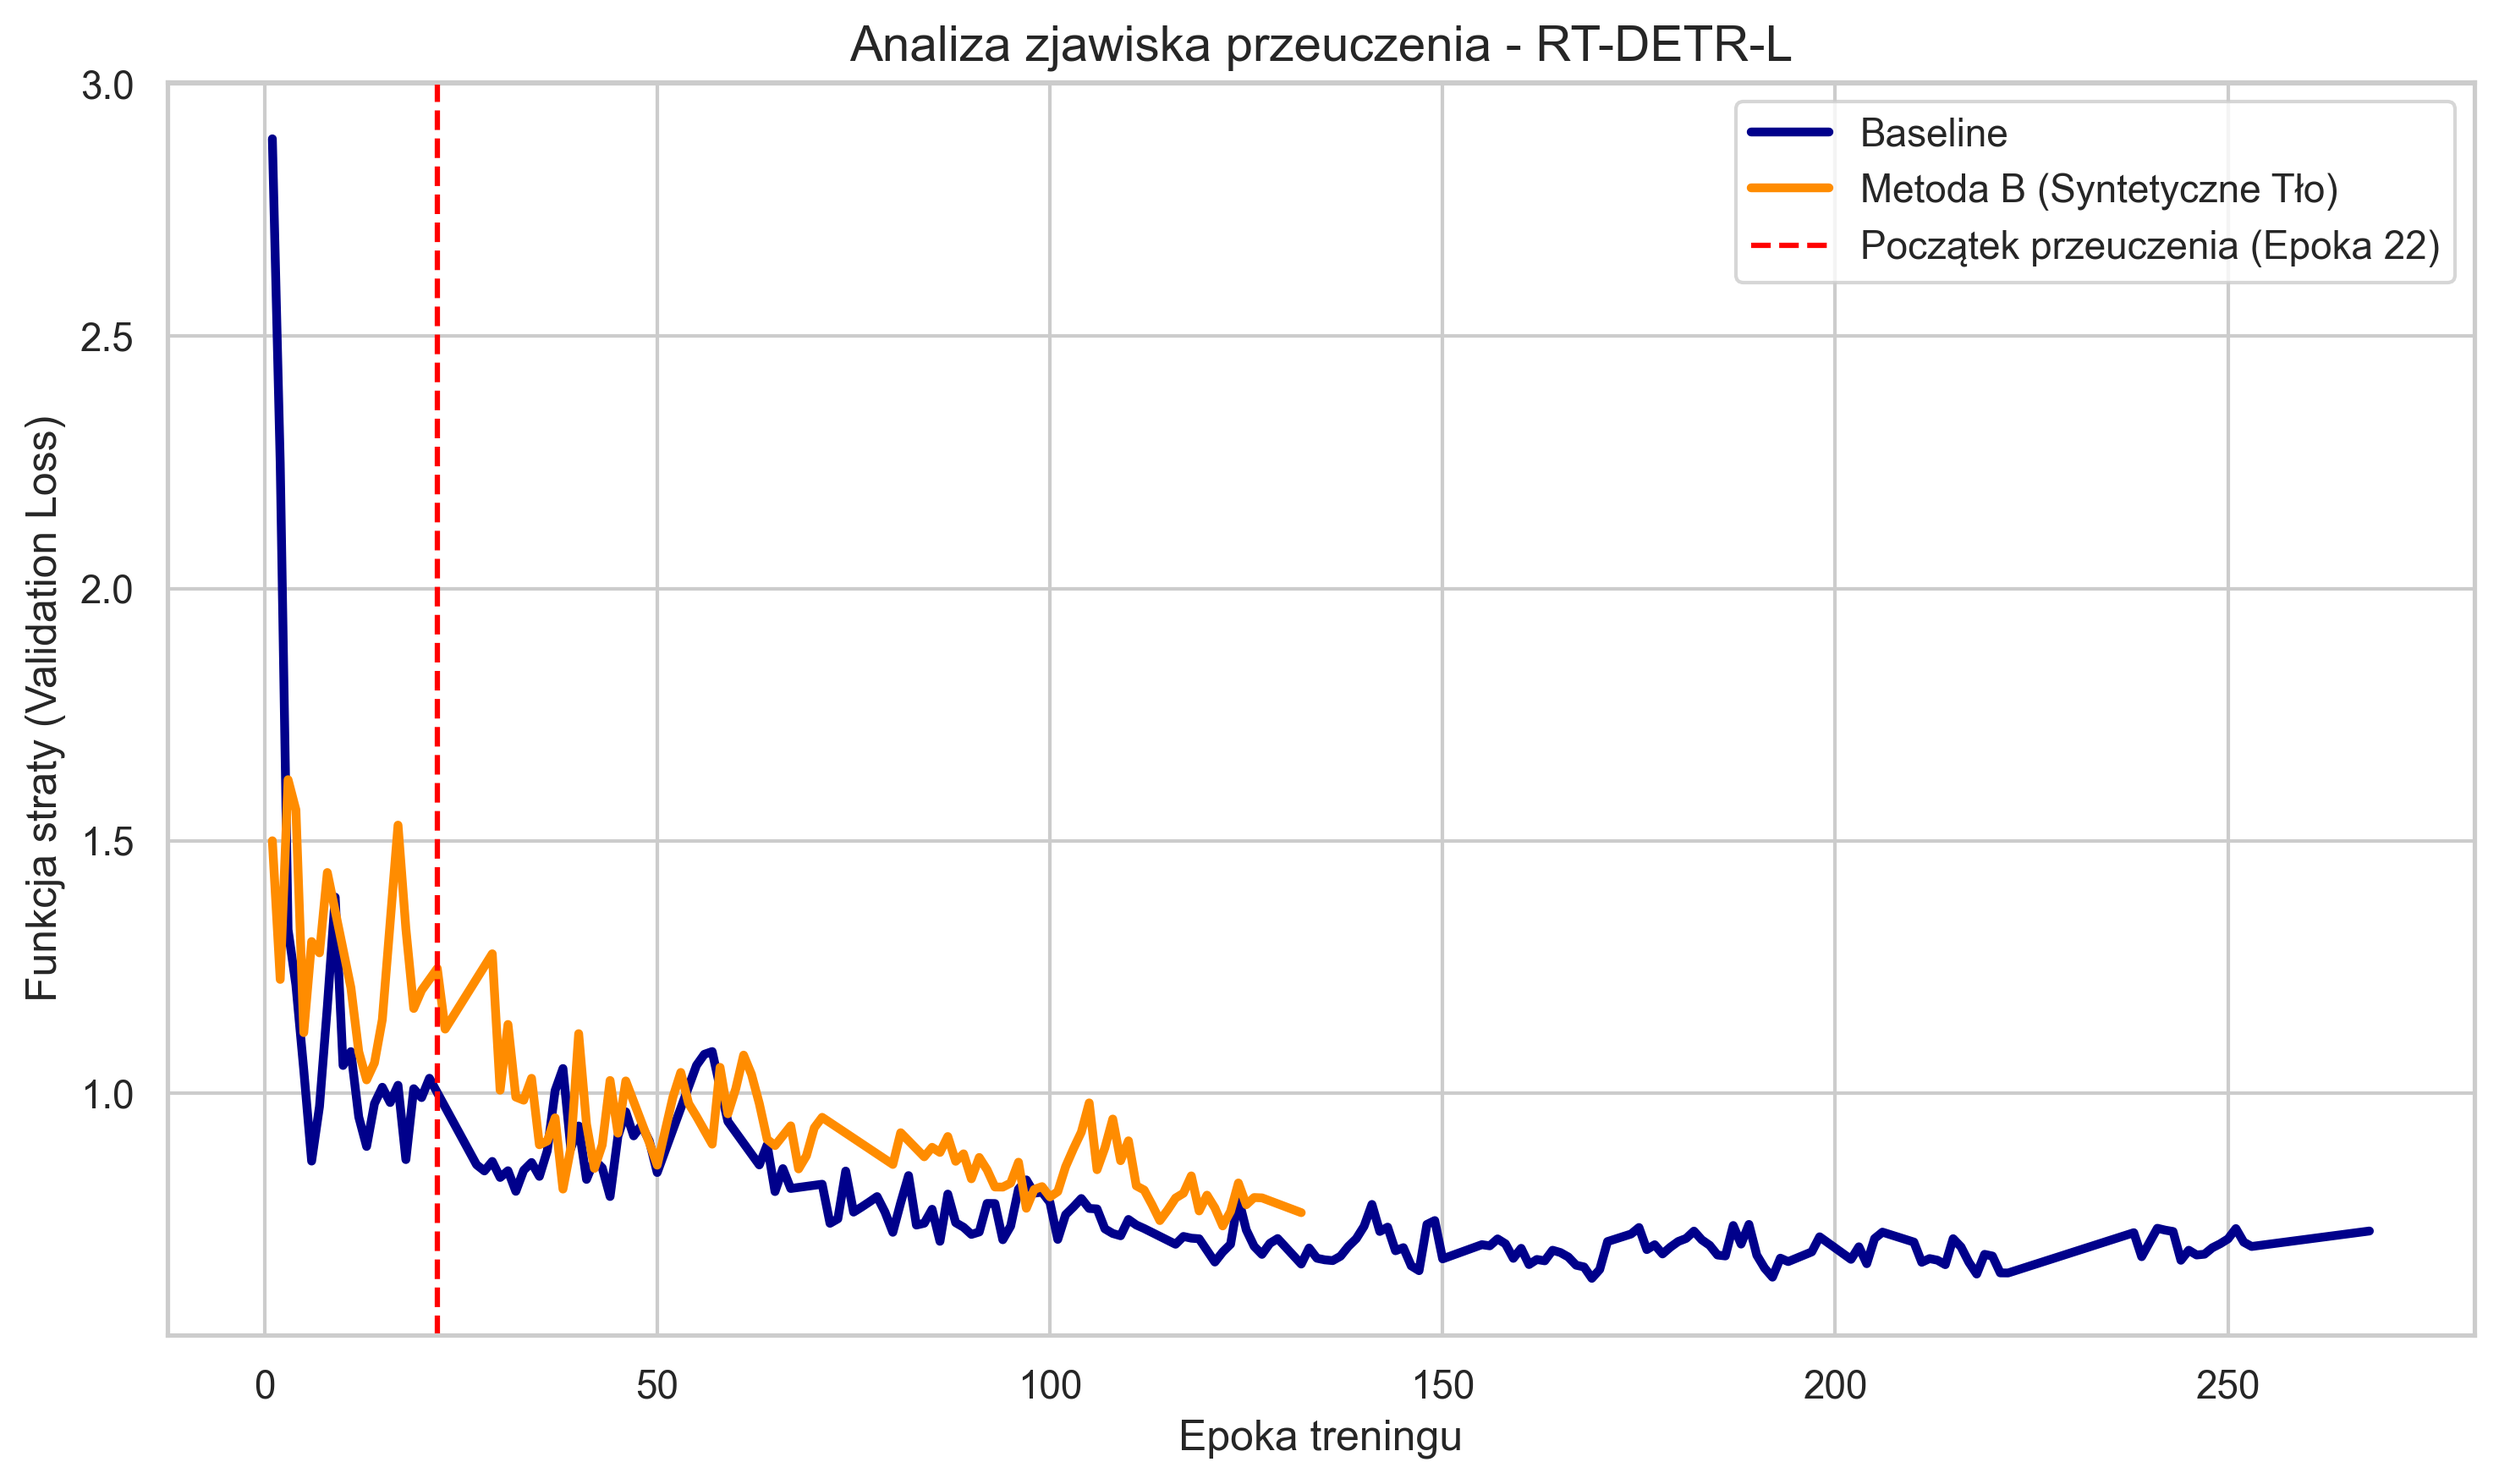
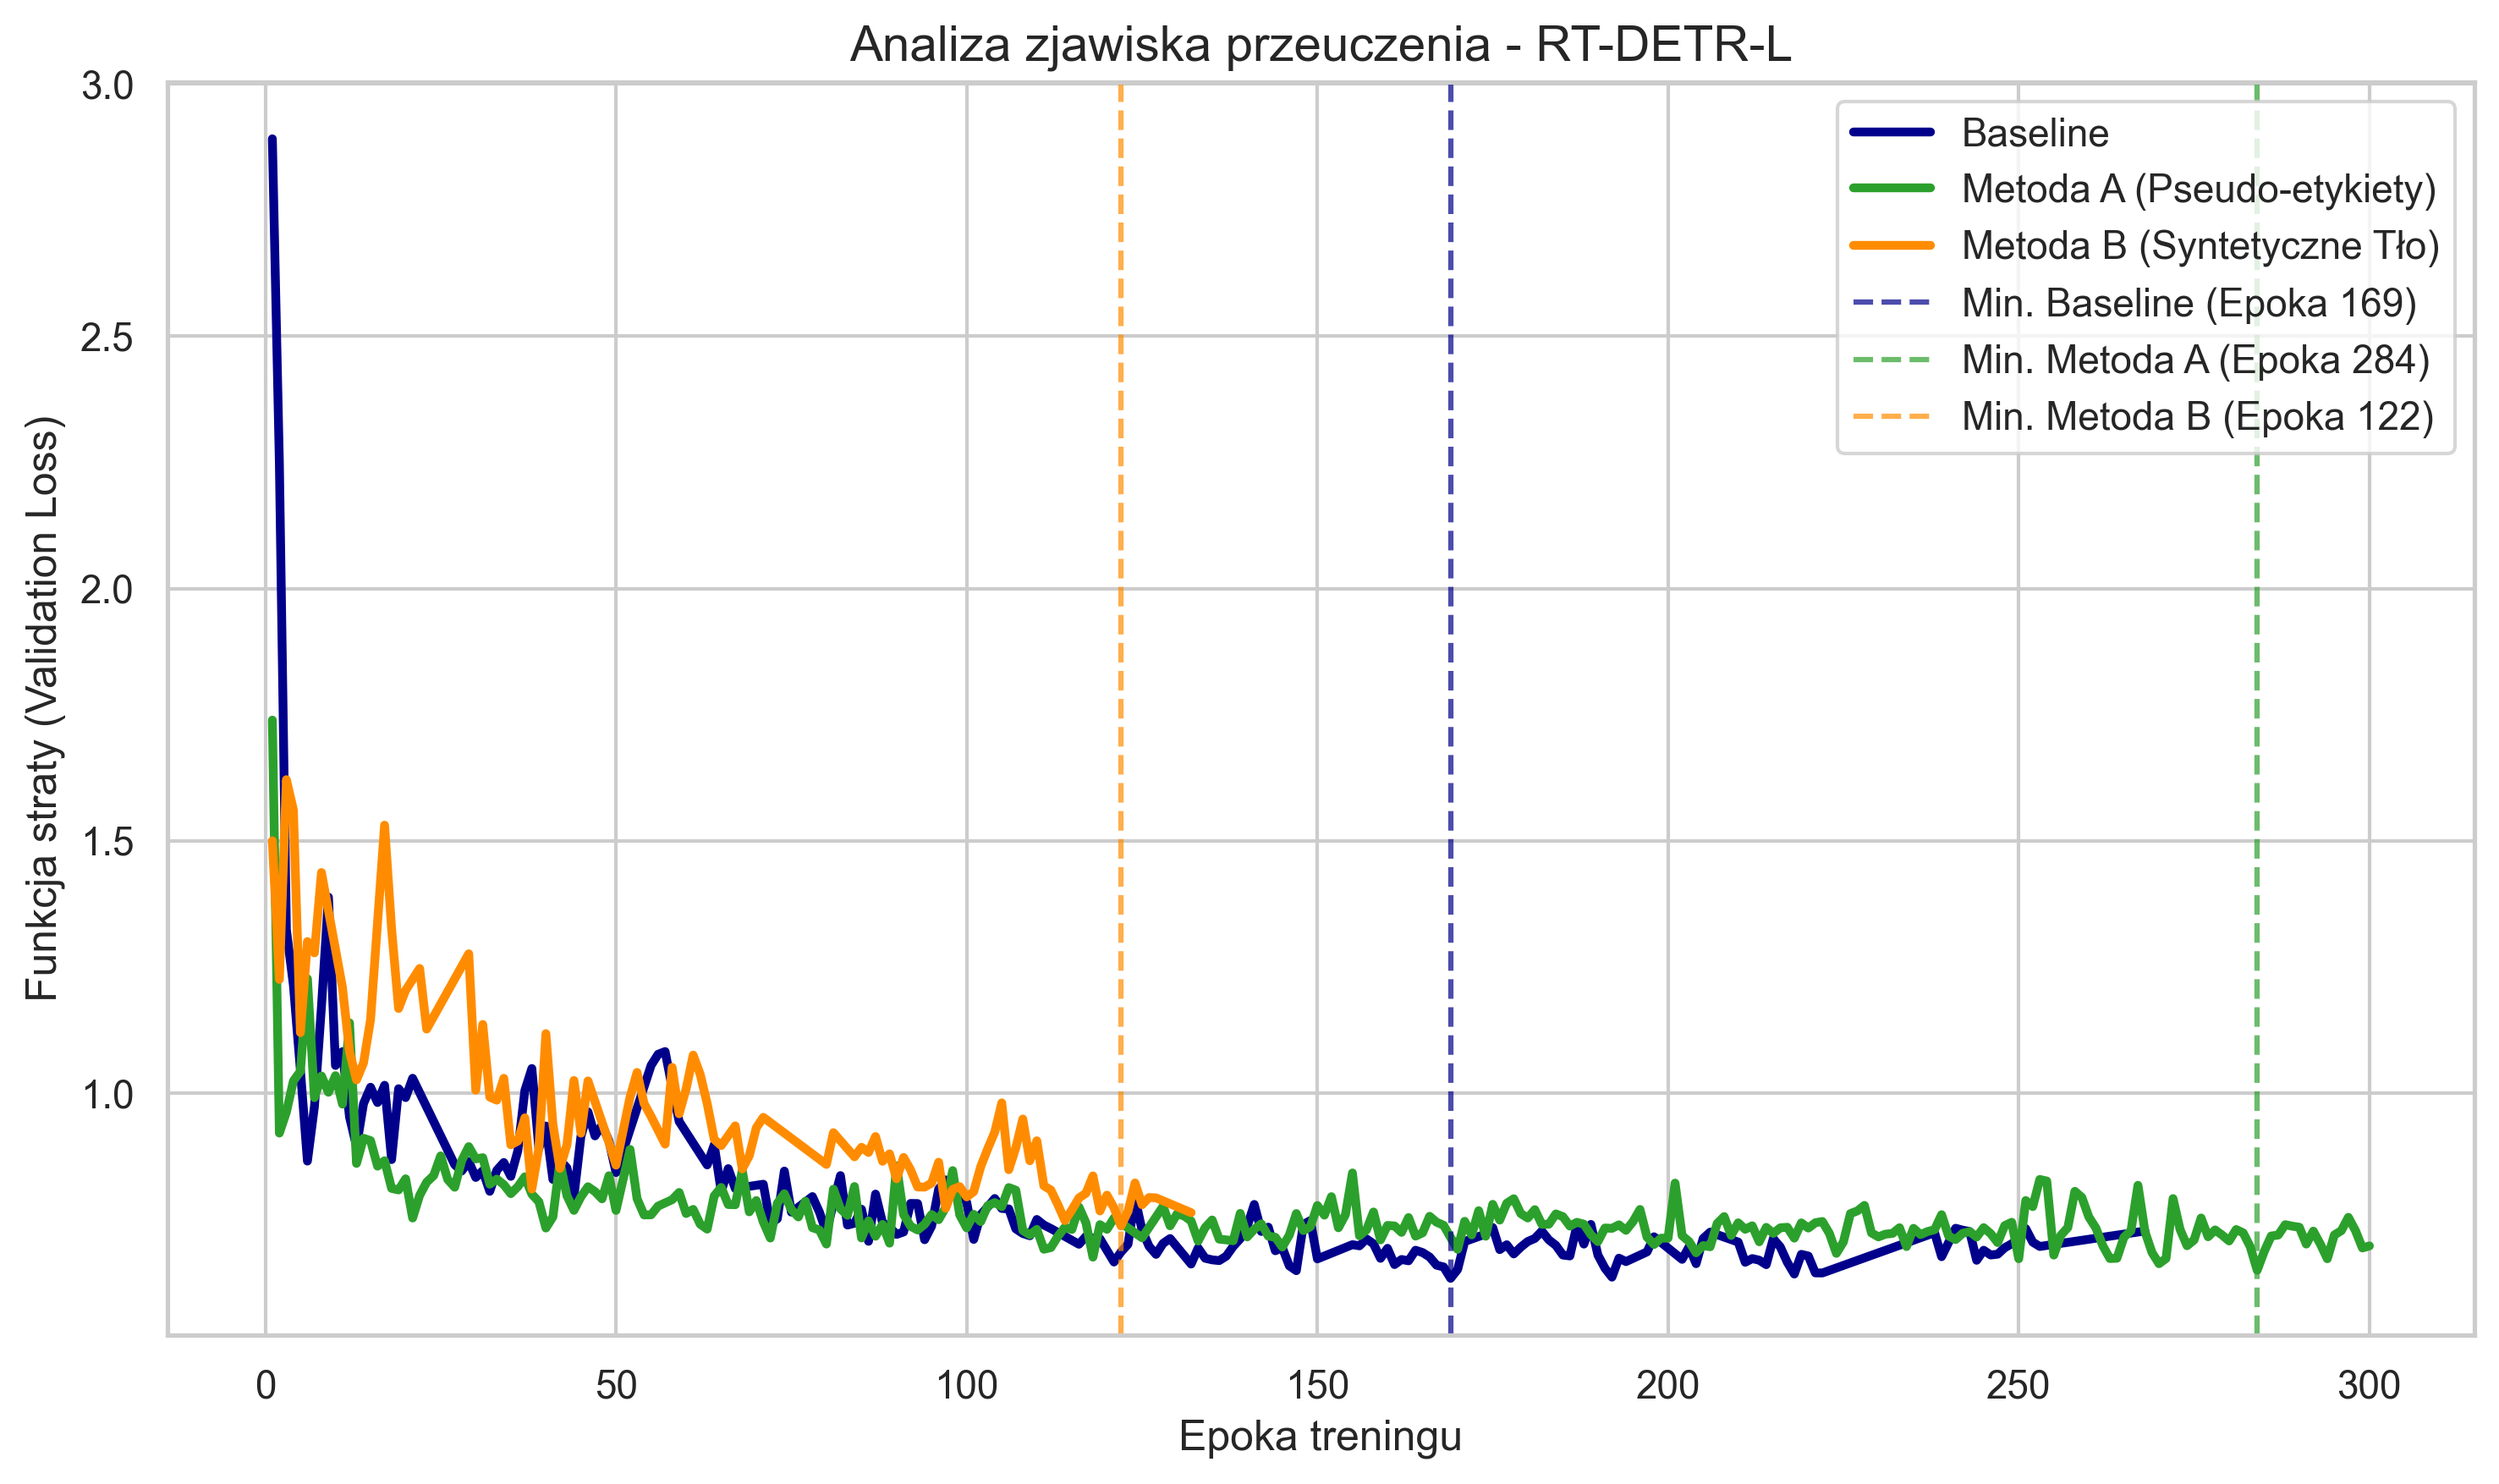
fixed val loss plots

diff --git a/results/scripts/plot_2_loss.py b/results/scripts/plot_2_loss.py
@@ -1,6 +1,7 @@
 import os
 import glob
 import pandas as pd
+import numpy as np
 import matplotlib.pyplot as plt
 import seaborn as sns
 
@@ -43,30 +44,46 @@ def main():
     for arch_display, arch_prefix in architectures.items():
         path_baseline = find_latest_run(os.path.join(base_path, f"{arch_prefix}_Baseline"))
         path_generative = find_latest_run(os.path.join(base_path, f"{arch_prefix}_SSL_Generative"))
+        path_pseudo = find_latest_run(os.path.join(base_path, f"{arch_prefix}_SSL_Pseudo"))
         
         fig, ax = plt.subplots(figsize=(10, 6))
         
-        if path_baseline and os.path.exists(path_baseline) and path_generative and os.path.exists(path_generative):
+        if path_baseline and os.path.exists(path_baseline) and path_generative and os.path.exists(path_generative) and path_pseudo and os.path.exists(path_pseudo):
             epochs_b, loss_b = get_loss_curve(path_baseline)
             epochs_g, loss_g = get_loss_curve(path_generative)
+            epochs_p, loss_p = get_loss_curve(path_pseudo)
             
-            min_loss_idx = loss_b.argmin()
-            min_epoch = epochs_b[min_loss_idx]
+            import numpy as np
+            min_epoch_b = epochs_b[np.nanargmin(loss_b)]
+            min_epoch_p = epochs_p[np.nanargmin(loss_p)]
+            min_epoch_g = epochs_g[np.nanargmin(loss_g)]
             
             sns.lineplot(x=epochs_b, y=loss_b, label="Baseline", linewidth=2.5, color='darkblue', ax=ax)
+            sns.lineplot(x=epochs_p, y=loss_p, label="Metoda A (Pseudo-etykiety)", linewidth=2.5, color='#2ca02c', ax=ax)
             sns.lineplot(x=epochs_g, y=loss_g, label="Metoda B (Syntetyczne Tło)", linewidth=2.5, color='darkorange', ax=ax)
             
-            ax.axvline(x=min_epoch, color='red', linestyle='--', label=f"Początek przeuczenia (Epoka {int(min_epoch)})")
+            ax.axvline(x=min_epoch_b, color='darkblue', linestyle='--', alpha=0.7, label=f"Min. Baseline (Epoka {int(min_epoch_b)})")
+            ax.axvline(x=min_epoch_p, color='#2ca02c', linestyle='--', alpha=0.7, label=f"Min. Metoda A (Epoka {int(min_epoch_p)})")
+            ax.axvline(x=min_epoch_g, color='darkorange', linestyle='--', alpha=0.7, label=f"Min. Metoda B (Epoka {int(min_epoch_g)})")
         else:
             print(f"Brak pełnych danych dla {arch_display}. Używam mock data.")
             import numpy as np
             epochs_mock = np.arange(1, 101)
             loss_b = np.concatenate([np.linspace(2.5, 1.5, 30), np.linspace(1.5, 2.5, 70)]) + np.random.normal(0, 0.05, 100)
+            loss_p = np.concatenate([np.linspace(2.5, 1.0, 50), np.linspace(1.0, 0.9, 50)]) + np.random.normal(0, 0.02, 100)
             loss_g = np.concatenate([np.linspace(2.5, 1.2, 70), np.linspace(1.2, 1.2, 30)]) + np.random.normal(0, 0.03, 100)
             
+            min_epoch_b_mock = epochs_mock[loss_b.argmin()]
+            min_epoch_p_mock = epochs_mock[loss_p.argmin()]
+            min_epoch_g_mock = epochs_mock[loss_g.argmin()]
+            
             sns.lineplot(x=epochs_mock, y=loss_b, label="Baseline", linewidth=2.5, color='darkblue', ax=ax)
+            sns.lineplot(x=epochs_mock, y=loss_p, label="Metoda A (Pseudo-etykiety)", linewidth=2.5, color='#2ca02c', ax=ax)
             sns.lineplot(x=epochs_mock, y=loss_g, label="Metoda B (Syntetyczne Tło)", linewidth=2.5, color='darkorange', ax=ax)
-            ax.axvline(x=30, color='red', linestyle='--', label="Początek przeuczenia (Baseline)")
+            
+            ax.axvline(x=min_epoch_b_mock, color='darkblue', linestyle='--', alpha=0.7, label=f"Min. Baseline (Epoka {int(min_epoch_b_mock)})")
+            ax.axvline(x=min_epoch_p_mock, color='#2ca02c', linestyle='--', alpha=0.7, label=f"Min. Metoda A (Epoka {int(min_epoch_p_mock)})")
+            ax.axvline(x=min_epoch_g_mock, color='darkorange', linestyle='--', alpha=0.7, label=f"Min. Metoda B (Epoka {int(min_epoch_g_mock)})")
 
         ax.set_xlabel("Epoka treningu", fontsize=12)
         ax.set_ylabel("Funkcja straty (Validation Loss)", fontsize=12)
